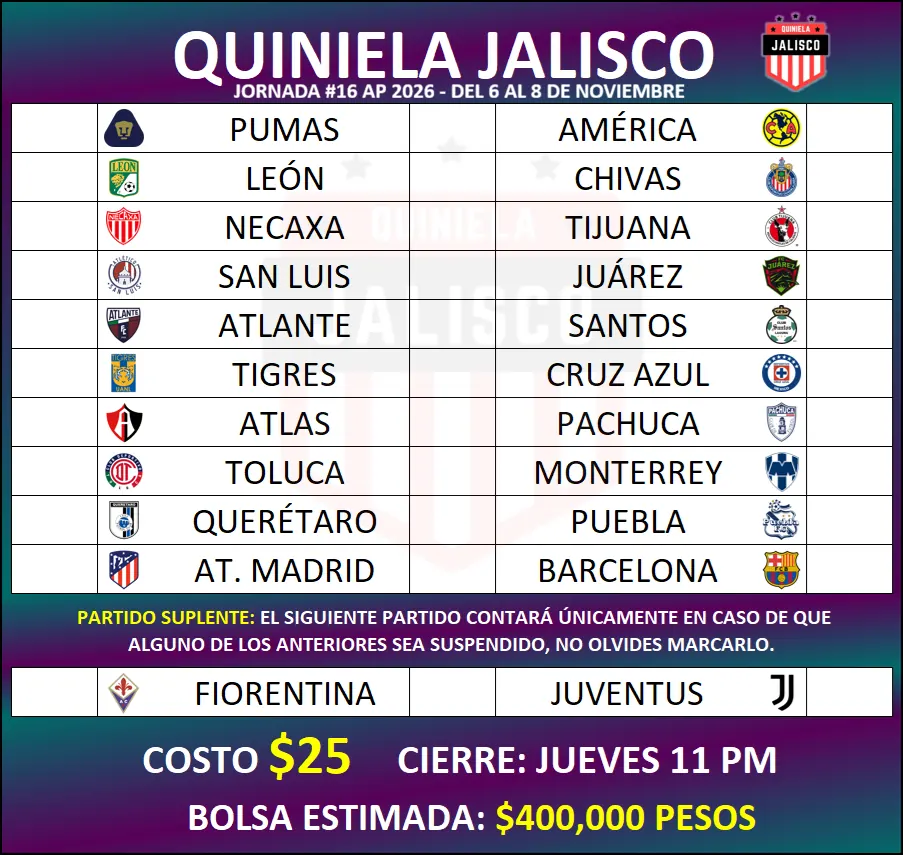
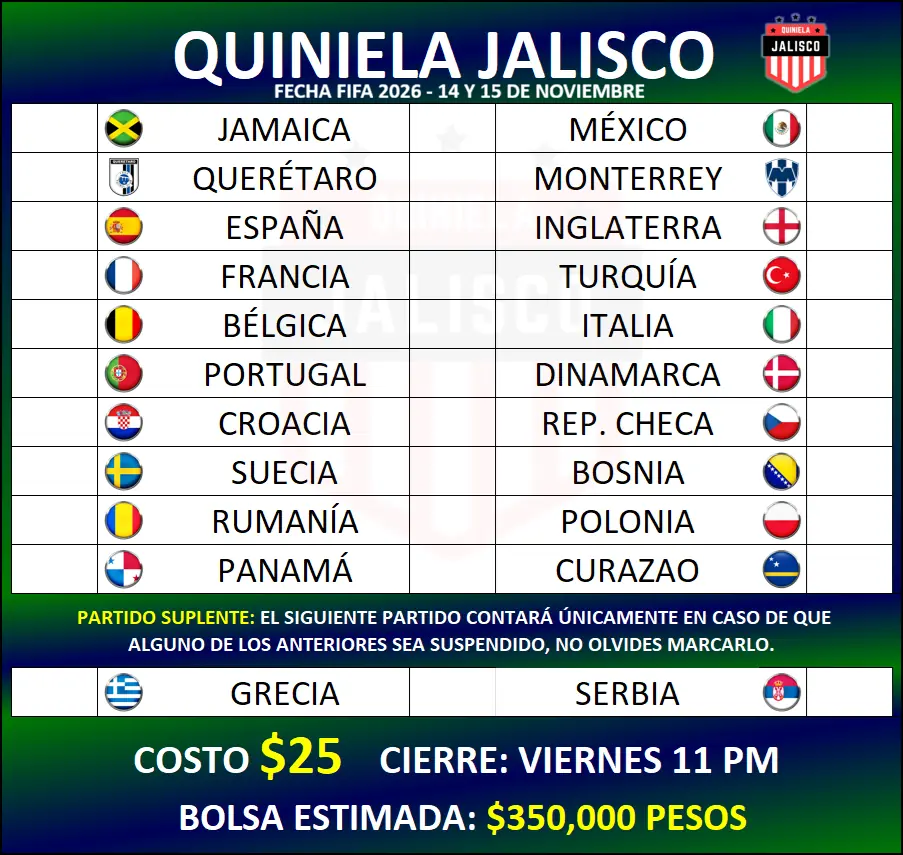
jgodg

diff --git a/11/styles11.css b/11/styles11.css
@@ -111,8 +111,8 @@ body{
     margin-top: 8.5%;
     border-top: solid 1px black;
     border-radius: 0 0 14px 14px;
-    background-image: -webkit-linear-gradient(90deg, #155165, rgb(84 5 92) 160%);
-    background-image: linear-gradient(0deg, #155165, rgb(84 5 92) 160%);
+    background-image: -webkit-linear-gradient(90deg, #025617, rgb(0 8 87) 160%);
+    background-image: linear-gradient(0deg, #025617, rgb(0 8 87) 160%);
 }
 
 /* Franja de costo y cierre: tapa ese renglón de la imagen */
@@ -121,8 +121,8 @@ body{
     width: 100%;
     margin-top: 0.12%;
     height: 8.38vw;
-    background-image: -webkit-linear-gradient(-90deg, #115766, rgb(84 5 92) 160%);
-    background-image: linear-gradient(180deg, #115766, rgb(84 5 92) 160%);
+    background-image: -webkit-linear-gradient(-90deg, #026809, rgb(2 4 85) 160%);
+    background-image: linear-gradient(180deg, #026809, rgb(2 4 85) 160%);
     background-position: 1px 0;
     background-size: calc(100% - 2px) 100%;
     background-repeat: no-repeat;
@@ -351,7 +351,7 @@ h6{
 }
 
 #cantidad:before{
-    content:'$400,000 pesos';
+    content:'+$350,000 pesos';
     color: yellow;
     white-space:pre;
     font-weight: 800;

diff --git a/var.js b/var.js
@@ -20,7 +20,7 @@ var QJ_CONFIG = {
     "global": {
         "price":25,
         "pricem":20,
-        "cierre":"JUEVES 11 PM",
+        "cierre":"VIERNES 11 PM",
         "cierrem":"LUNES 11 PM",
         "suspIndex":[],
         "suspIndexm":[],
@@ -30,7 +30,7 @@ var QJ_CONFIG = {
         "sendBlockTom":0
     },
     "vendors": {
-        "1": {"tel":"5213330335106","telm":"5213313265676","min2":true,"min2m":true,"sendBlock":true,"sendBlockm":true,"disableRedirect":false,"hideBottomInfo":false,
+        "1": {"tel":"5213330335106","telm":"5213313265676","min2":true,"min2m":true,"sendBlock":false,"sendBlockm":true,"disableRedirect":false,"hideBottomInfo":false,
             "cuentas": [
                 {"banco":"BBVA","num":"4152 3145 2178 7229","uso":"Solo transferencias","titular":"Eduardo Garcia Valenzuela"},
                 {"banco":"Spin OXXO","num":"4217 4702 7189 4913","uso":"Solo depósitos en OXXO"},
